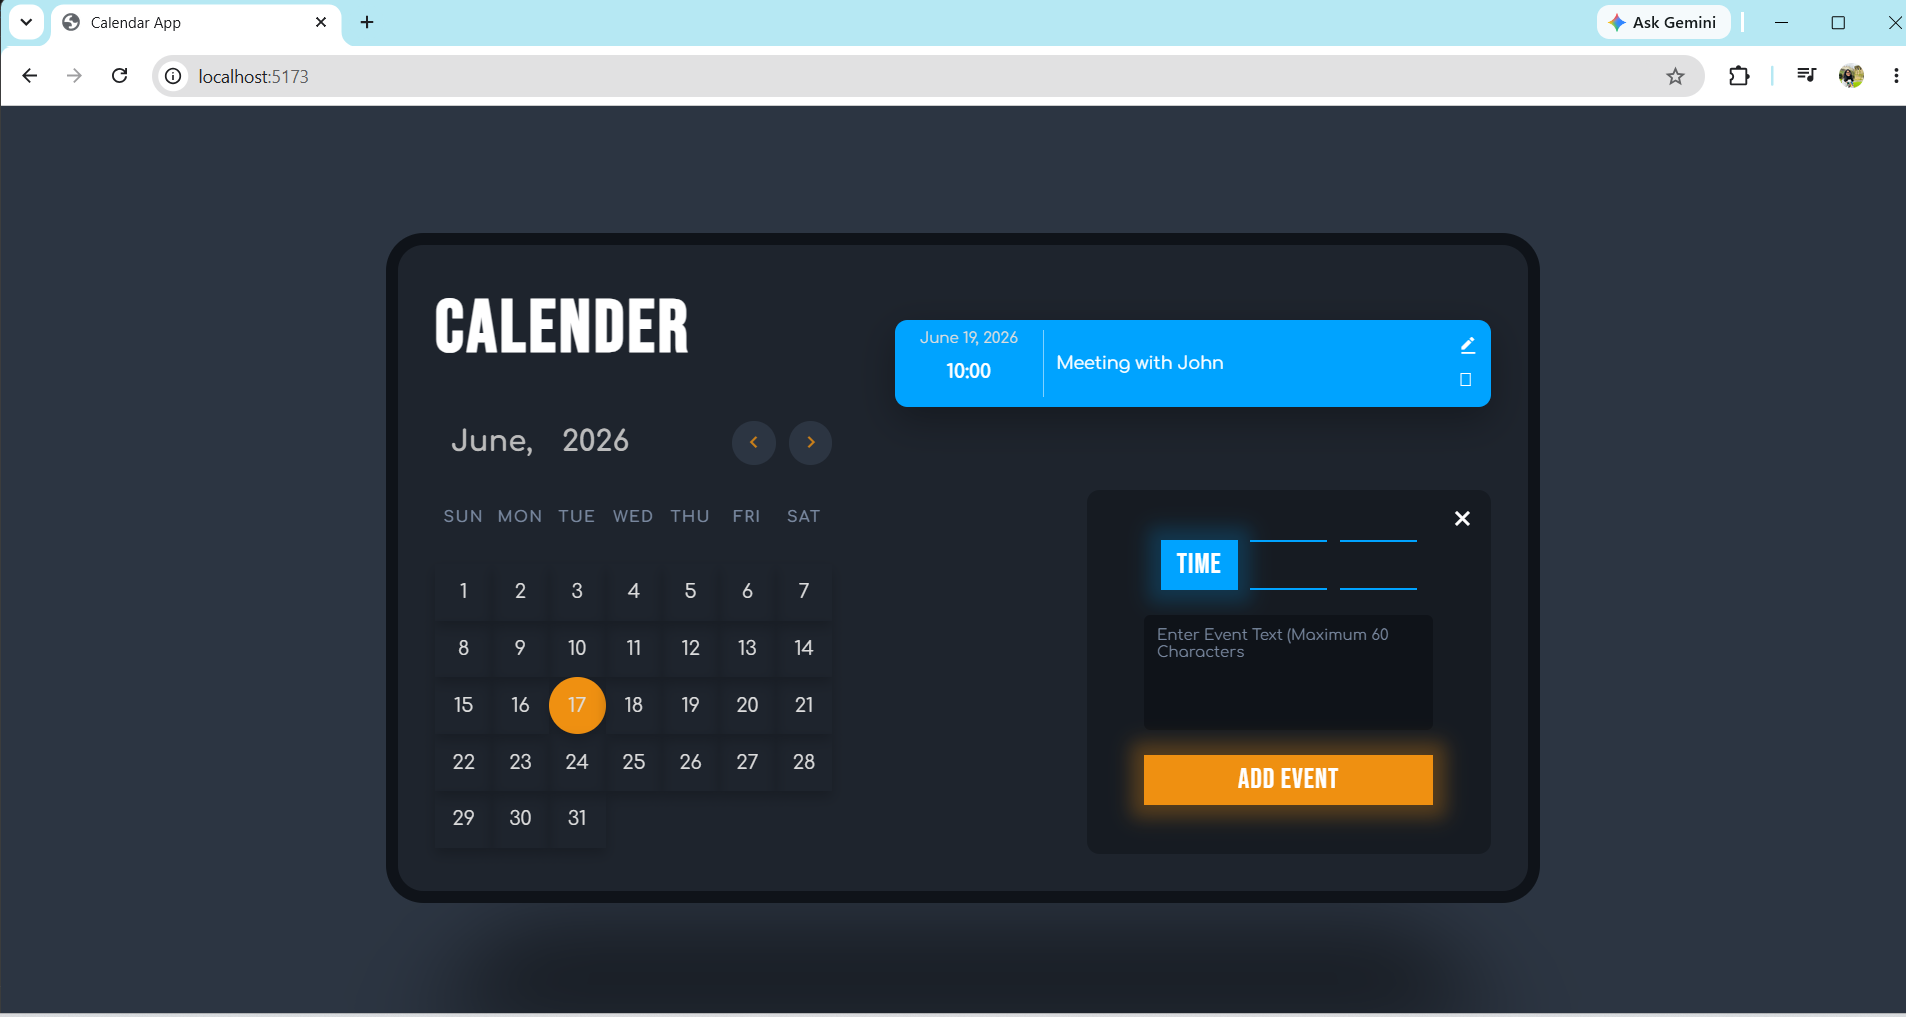
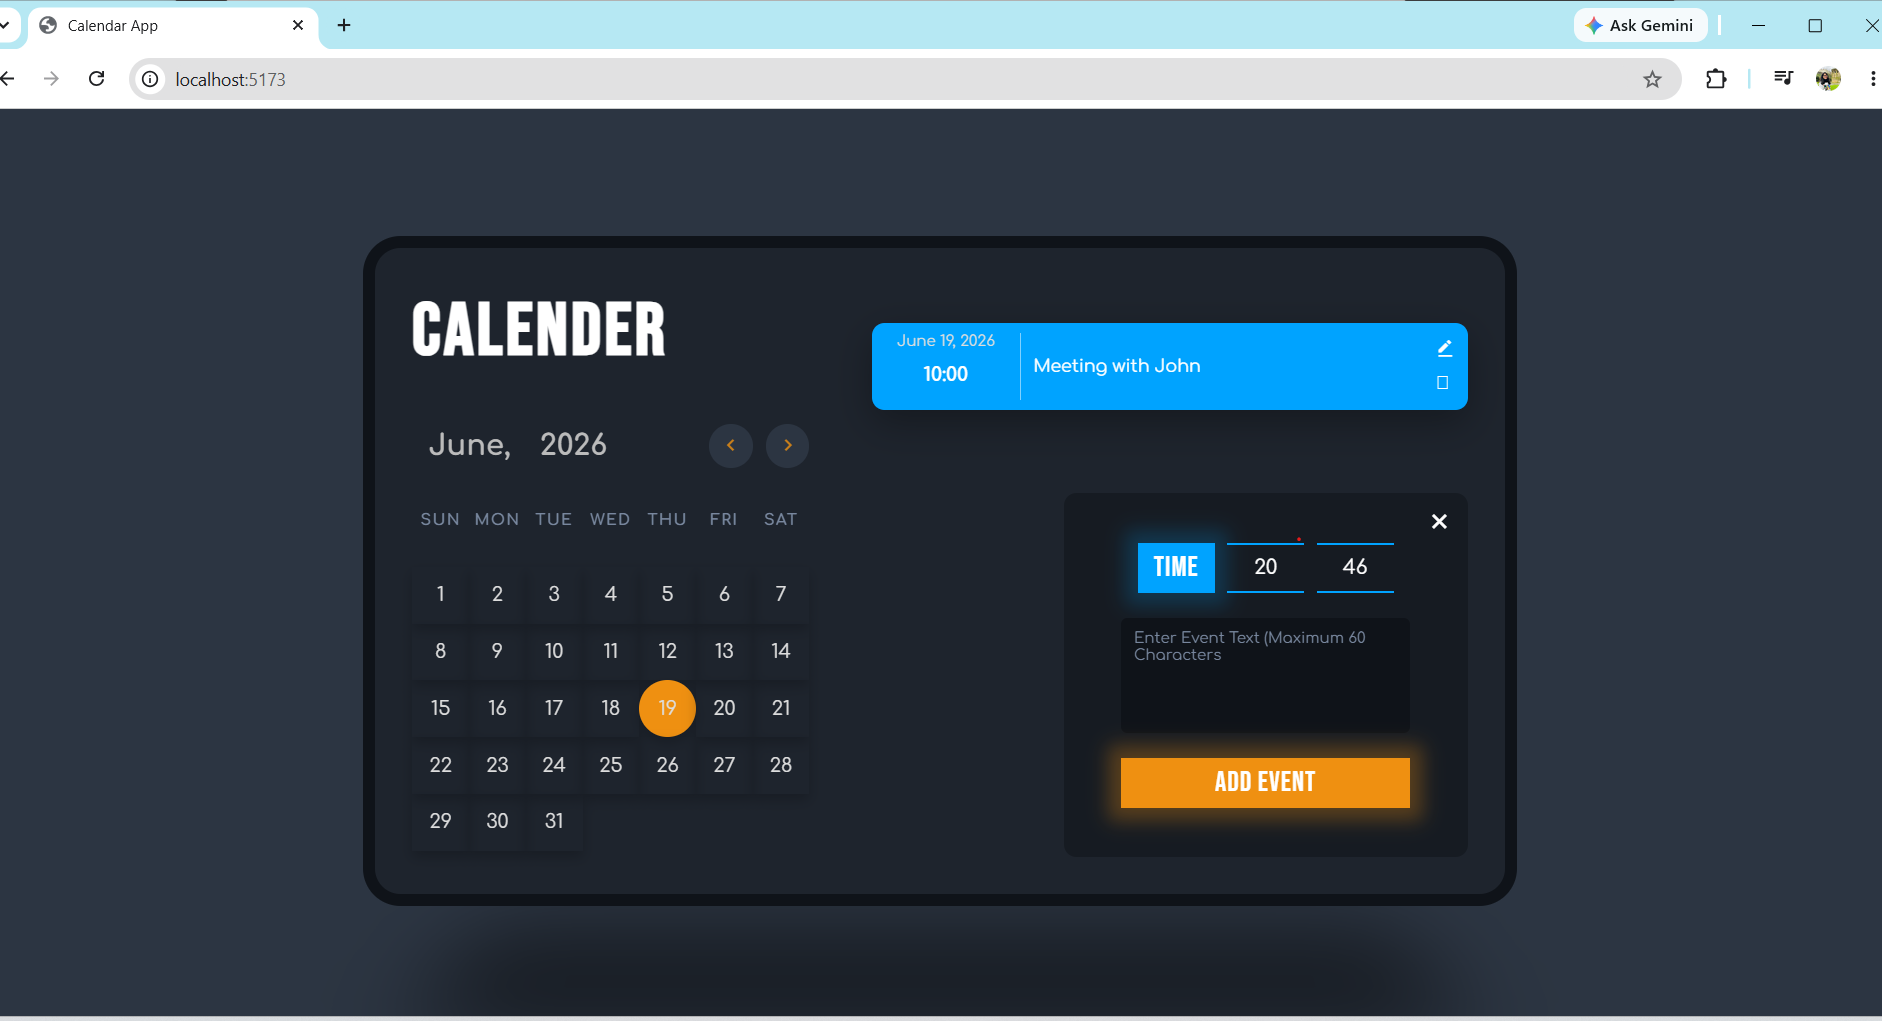
create cleaner template

diff --git a/src/components/CalendarApp.jsx b/src/components/CalendarApp.jsx
@@ -39,9 +39,9 @@ const CalendarApp = () => {
                 <span>14</span>
                 <span>15</span>
                 <span>16</span>
-                <span className='current-day'>17</span>
+                <span>17</span>
                 <span>18</span>
-                <span>19</span>
+                <span className='current-day'>19</span>
                 <span>20</span>
                 <span>21</span>
                 <span>22</span>